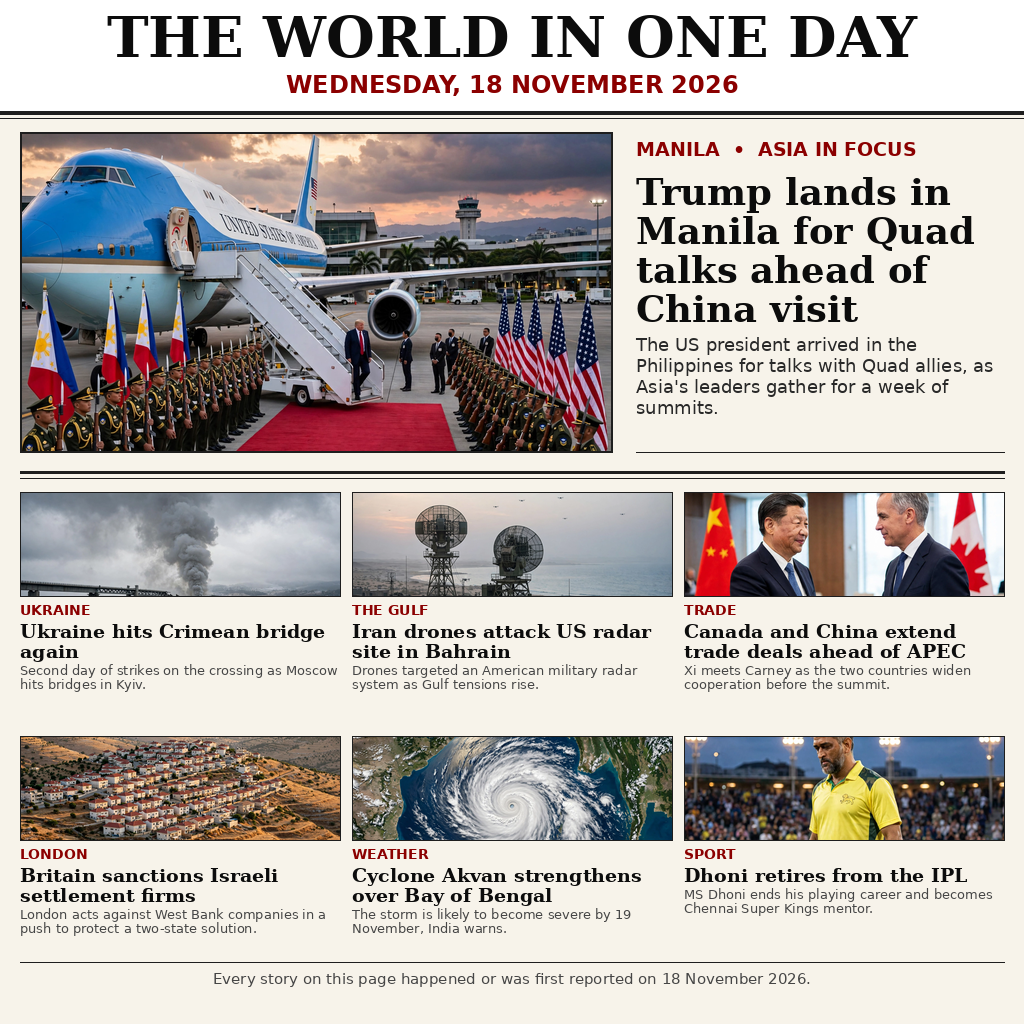
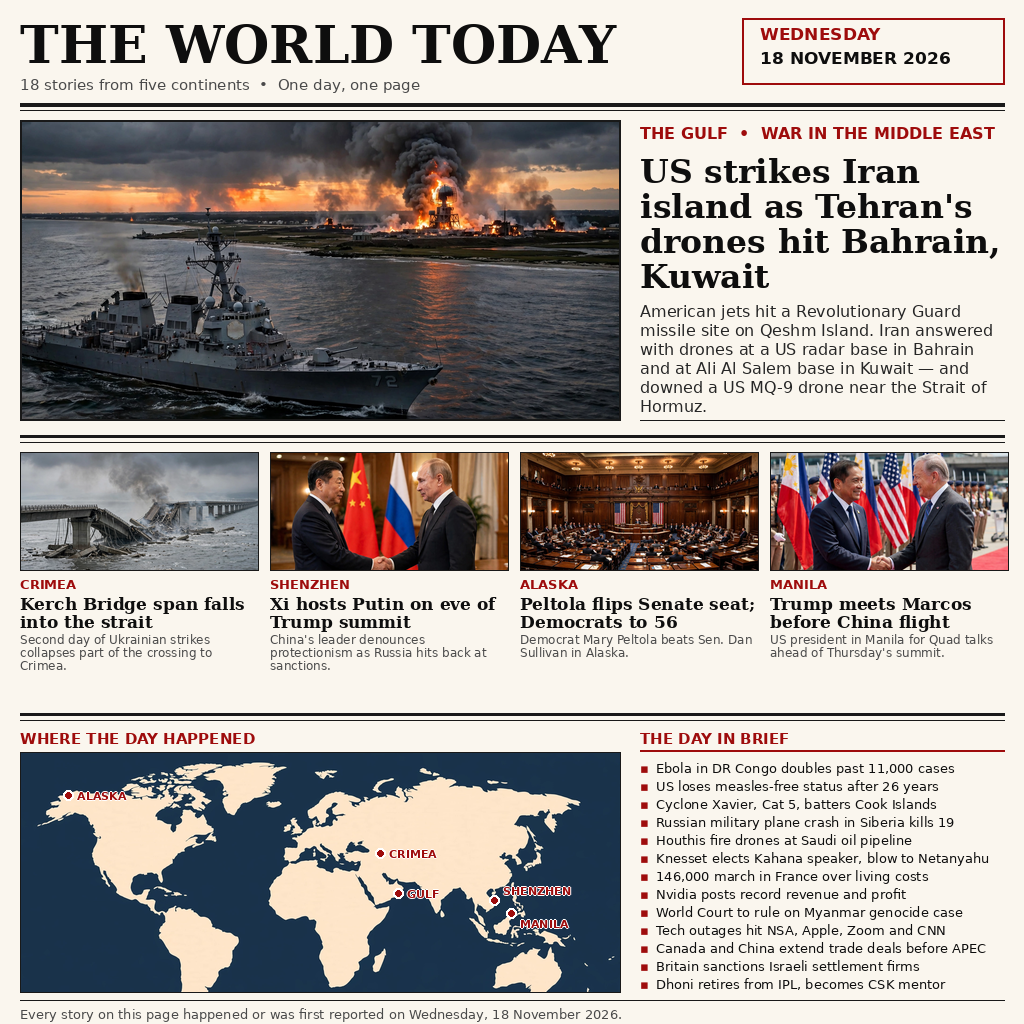
news-image-20261118 v2: THE WORLD TODAY — Gulf-strikes lead, 18 stories, map panel

diff --git a/main.py b/main.py
@@ -1,9 +1,12 @@
-# news-image-20261118 entry (Python 3.13, standard library only).
-# The front-page image sits beside this file as entry.png; the program
+# news-image-20261118 entry, round v2 (Python 3.13, standard library only).
+# The v2 front-page image sits beside this file as entry.png; the program
 # copies it to /output/entry.png (or $MAKEFUN_OUTPUT_DIR when set).
 # No network, no randomness: the same bytes come out every run.
-# The image is a 1024x1024 newspaper front page: masthead + date line,
-# one lead story and six panels, all typeset by the build script.
+# The image is a 1024x1024 newspaper front page: "THE WORLD TODAY"
+# masthead, Gulf-strikes lead, four photo panels, a world-map panel and
+# a 13-item briefs column — 18 stories from five continents.
+# v2 replaces the v1 front page ("THE WORLD IN ONE DAY", Trump/Manila lead)
+# with a new lead, new nameplate, a map panel and a denser story count.
 import os
 import shutil
 from pathlib import Path

diff --git a/README.md b/README.md
@@ -4,7 +4,9 @@
 [![rank](https://make.fun/badge/news-image-20261118/keepomakima/news-image-20261118/rank.svg)](https://make.fun/bounty/news-image-20261118/leaderboard?utm_source=github&utm_medium=readme&utm_campaign=news-image-20261118)
 [![reward](https://make.fun/badge/news-image-20261118/keepomakima/news-image-20261118/reward.svg)](https://make.fun/bounty/news-image-20261118?utm_source=github&utm_medium=readme&utm_campaign=news-image-20261118)
 
-One image that sums up the world's news of Wednesday, 18 November 2026, as a newspaper front page. Entry for the make.fun competition `news-image-20261118`.
+One image that sums up the world's news of Wednesday, 18 November 2026, as a newspaper front page. Entry for the make.fun competition `news-image-20261118` — round v2 (re-entry).
+
+Round v2 is a new front page, not a tweak of round v1: different lead story (Gulf strikes), different nameplate, four photo panels instead of six, a world-map panel, and 18 stories instead of 7.
 
 ## Run it
 
@@ -14,22 +16,22 @@ python3 main.py
 
 ## The image
 
-`entry.png` (1024×1024, PNG) is a front page titled **THE WORLD IN ONE DAY**,
-dated **WEDNESDAY, 18 NOVEMBER 2026**, with seven stories that happened or
+`entry.png` (1024×1024, PNG) is a front page titled **THE WORLD TODAY**,
+dated **WEDNESDAY, 18 NOVEMBER 2026**, with eighteen stories that happened or
 were first reported on that day:
 
-1. **Lead — Trump lands in Manila** for Quad talks ahead of a China visit.
-2. **Ukraine** hits the Crimean bridge again, as Russia pounds Kyiv.
-3. **The Gulf** — Iran drones attack a US radar site in Bahrain.
-4. **Trade** — Canada and China extend trade deals ahead of the APEC summit.
-5. **London** — Britain sanctions Israeli settlement firms.
-6. **Weather** — Cyclone Akvan strengthens over the Bay of Bengal.
-7. **Sport** — MS Dhoni retires from the IPL, becoming CSK mentor.
+1. **Lead — Gulf strikes**: US jets hit a Revolutionary Guard missile site on Qeshm Island; Iran's drones hit Bahrain and Kuwait, and downed a US MQ-9 drone.
+2. **Crimea** — Kerch Bridge span falls into the strait after a second day of Ukrainian strikes.
+3. **Shenzhen** — Xi hosts Putin on the eve of the Trump trilateral summit.
+4. **Alaska** — Peltola flips the Senate seat; Democrats projected to 56.
+5. **Manila** — Trump meets Marcos before his China flight.
+6. **In brief** — Ebola in DR Congo, US measles status, Cyclone Xavier, Siberia plane crash, Houthi drones, Knesset speaker, France protests, Nvidia, Myanmar court, tech outages, Canada–China trade, UK sanctions, Dhoni.
 
 The panel photographs are AI-generated illustrations; every headline and
-caption is typeset by code (see `build_frontpage.py` in the build workspace),
-so the text stays crisp and legible. The footer states that every story on
-the page happened or was first reported on 18 November 2026.
+caption is typeset by code (see `build_frontpage_v2.py` in the build
+workspace), so the text stays crisp and legible. A world-map panel marks
+where the five leading stories happened. The footer states that every story
+on the page happened or was first reported on 18 November 2026.
 
 ## The program
 
@@ -38,7 +40,7 @@ the page happened or was first reported on 18 November 2026.
 
 ## Build
 
-The front page was composed with `build_frontpage.py` (Pillow) from seven
+The front page was composed with `build_frontpage_v2.py` (Pillow) from six
 generated panel photos. The build script lives in the coordinator's workspace,
 not in this repo; the repo holds only the program and the image it ships.
 
